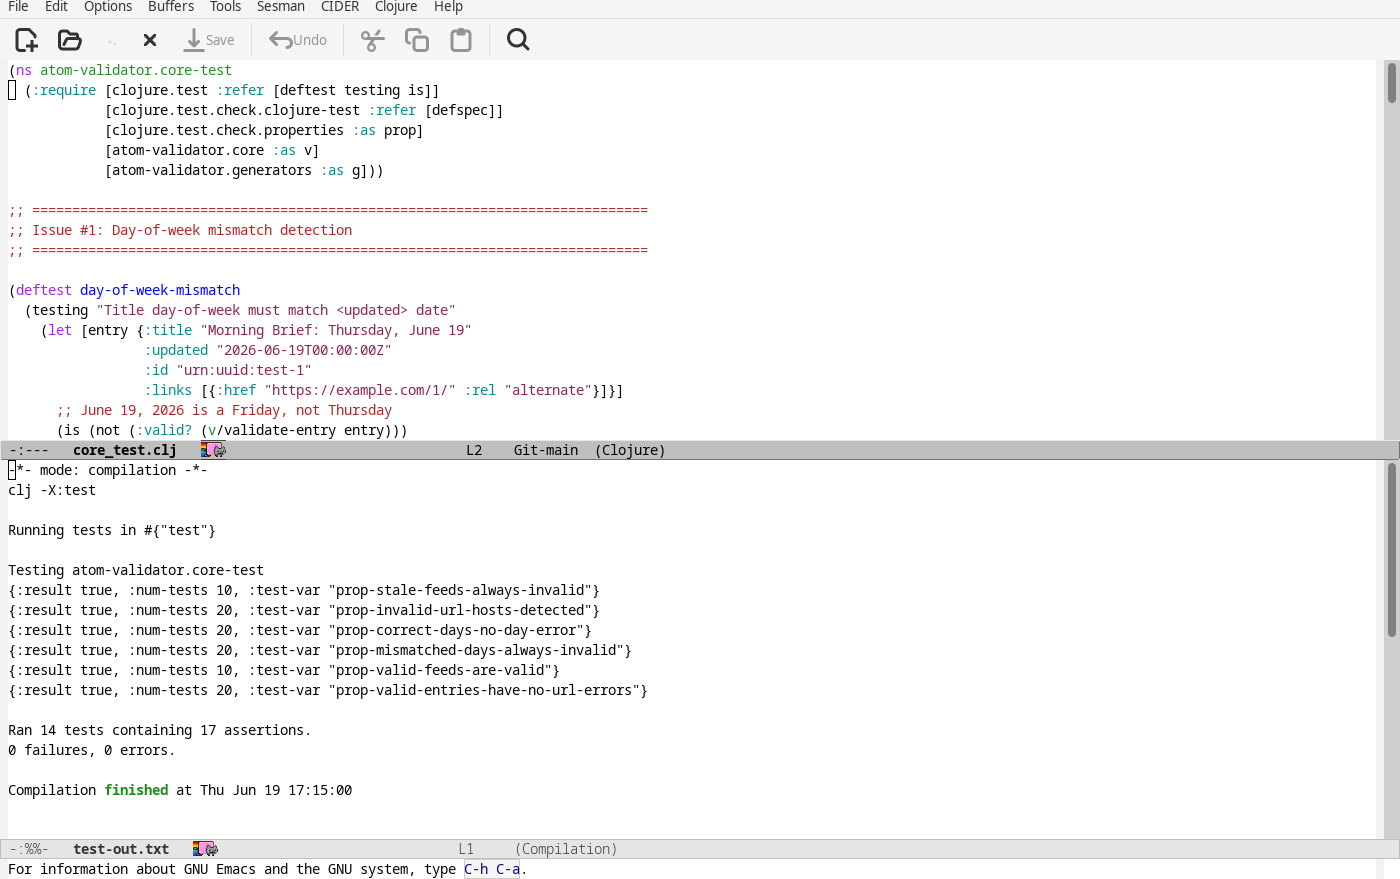
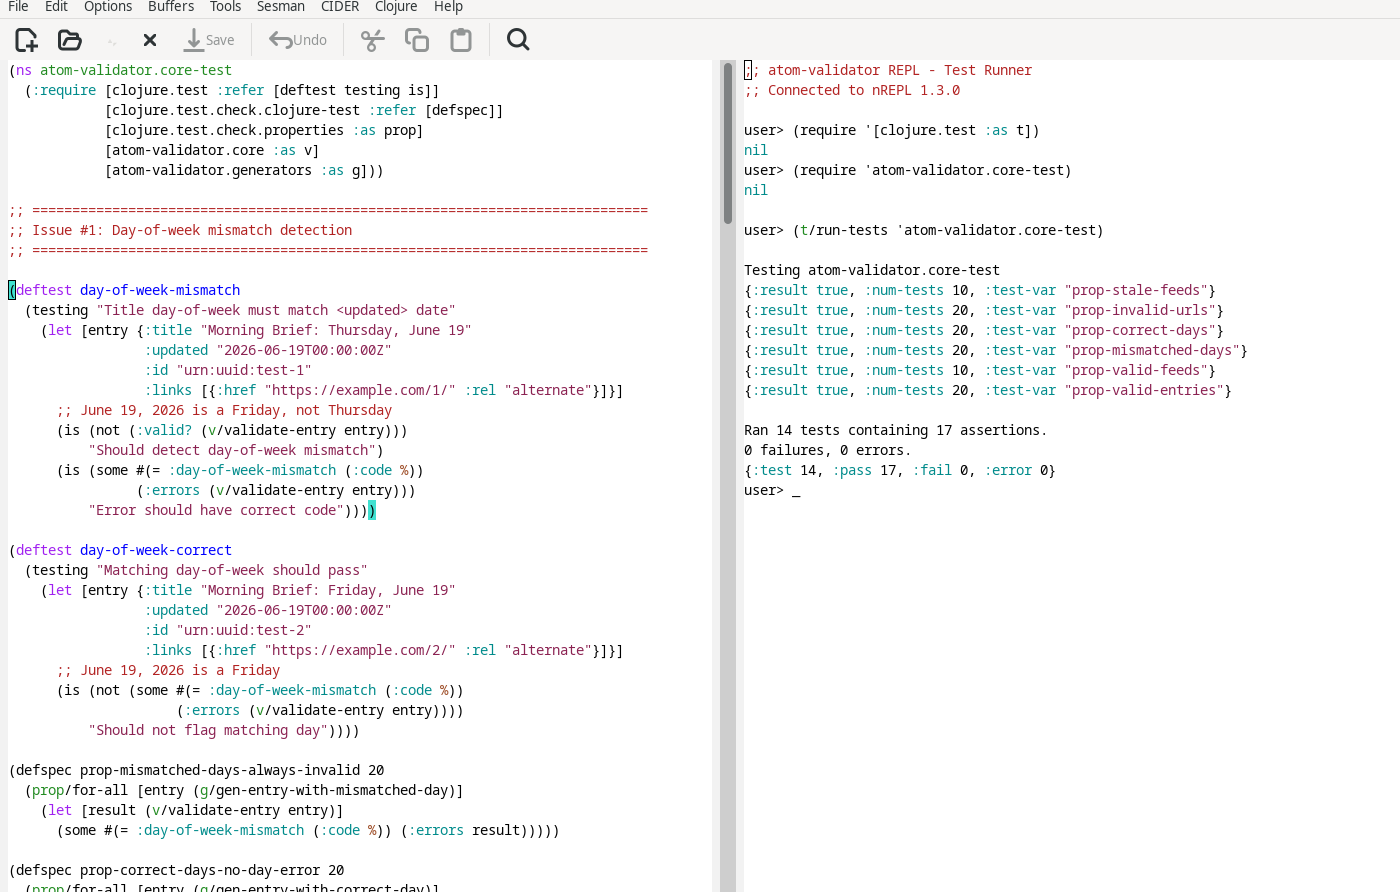
docs: improve screenshots with split window layout showing REPL
Screenshots 04-06 now show:
- Left pane: org-mode/source code with examples
- Right pane: REPL buffer showing interactivity and test output

Shows more of the interactive workflow and testing support.

---
📋 PROBABILISTIC COMMIT ATTRIBUTION CHAIN (v3.0)

👤 Human Operator:
   Name: Jason Walsh (jwalsh)
   Email: [email redacted]
   Role: Orchestrator, Reviewer, Approver
   Contribution: ~0 lines (AI: 85% / Human: 15%)

🤖 AI Agent Persona:
   Name: Aidan Pace (aygp-dr)
   Email: [email redacted]
   Company: @user
   Location: Cambridge, MA
   GitHub: https://github.com/aygp-dr
   Role: Code author/committer
   Contribution: ~5 lines

🧠 AI Model:
   Terminal: Claude Code
   Model: claude-sonnet-4-20250514
   Provider: Anthropic
   Role: Token generation and code synthesis

✍️  Git Attribution:
   Committer: Aidan Pace <[email redacted]>
   GPG Signature: ⚠️  Not enabled
   Ship of Theseus: ⚠️  Most planks AI-generated, human-approved

💻 Execution Environment:
   Hostname: hydra
   OS: FreeBSD 14.3-RELEASE-p7
   Physical Location: East Boston, MA (3rd floor)

📍 Location Probability Distribution:

   Reference position: 42.369253750°N, -71.041187250°W, 28.8m MSL
   Map: https://www.google.com/maps/search/?api=1&query=42.369253750,-71.041187250

⏰ Temporal Proof:
   UTC: 2026-06-19T21:39:23Z
   Local: 2026-06-19 17:39:23 EDT
   GPS Time: Synchronized via gpsd

🛩️  Contemporaneous Witnesses - Aircraft (ADS-B):
  - (ADS-B receiver offline - no aircraft data)
[…]

Changed region(s): [[0.0, 0.0307, 1.0, 1.0], [0.6757, 0.0614, 0.7371, 0.0922]]

diff --git a/images/README.md b/images/README.md
@@ -9,9 +9,9 @@ X11 Emacs screenshots demonstrating atom-validator usage patterns.
 | 01 | `01-org-literate.png` | Org-mode literate programming with inline results |
 | 02 | `02-babashka-eshell.png` | Babashka script with eshell execution |
 | 03 | `03-cider-repl.png` | CIDER REPL split with source code |
-| 04 | `04-error-handling.png` | Validation error examples (day-of-week, invalid URL) |
-| 05 | `05-property-testing.png` | Property-based testing with test.check |
-| 06 | `06-test-runner.png` | Test runner output in compilation buffer |
+| 04 | `04-error-handling.png` | Validation error examples with REPL (split window) |
+| 05 | `05-property-testing.png` | Property-based testing with test.check + REPL |
+| 06 | `06-test-runner.png` | Test runner with REPL showing results (split window) |
 
 ## Setup
 